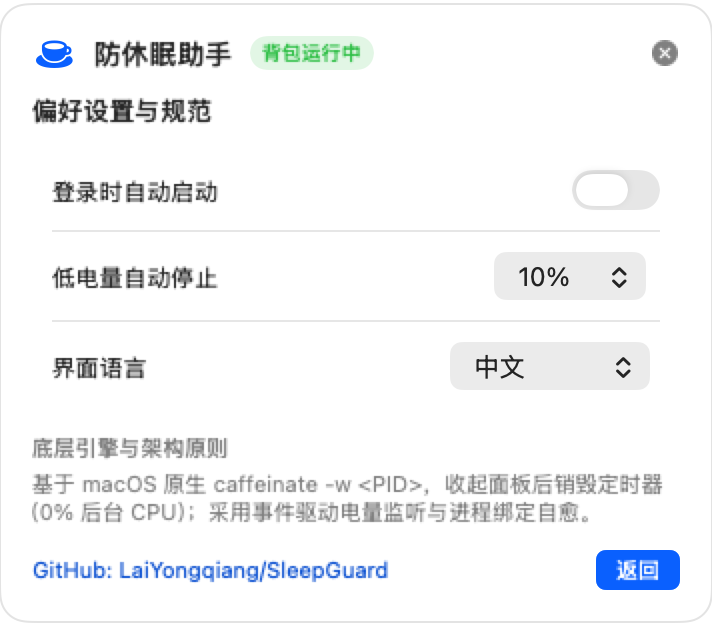
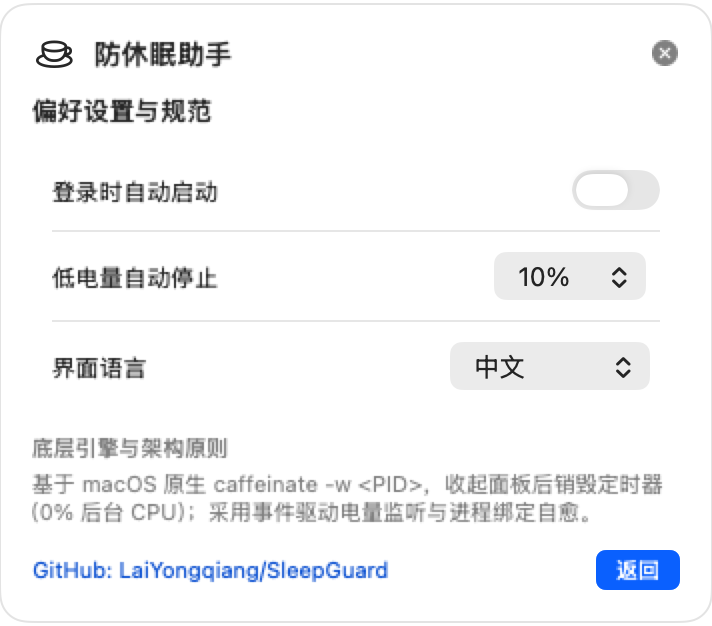
docs: add complete English preview screenshots to README

Changed region(s): [[0.3399, 0.0304, 0.5253, 0.1214], [0.0309, 0.0607, 0.1236, 0.1214]]

diff --git a/scripts/render_screenshots.swift b/scripts/render_screenshots.swift
@@ -69,6 +69,7 @@ struct ScreenshotRenderer {
         )
 
         manager.showSettings = true
+        manager.isRunning = false
         render(
             view: SleepGuardPopoverView(manager: manager),
             appearance: .aqua,
@@ -76,12 +77,32 @@ struct ScreenshotRenderer {
         )
 
         manager.showSettings = false
-        manager.isRunning = false
         manager.config.language = .en
         render(
             view: SleepGuardPopoverView(manager: manager),
             appearance: .aqua,
             outPath: "\(outDir)/preview-idle-en.png"
+        )
+
+        manager.isRunning = true
+        render(
+            view: SleepGuardPopoverView(manager: manager),
+            appearance: .aqua,
+            outPath: "\(outDir)/preview-running-light-en.png"
+        )
+
+        render(
+            view: SleepGuardPopoverView(manager: manager),
+            appearance: .darkAqua,
+            outPath: "\(outDir)/preview-running-dark-en.png"
+        )
+
+        manager.isRunning = false
+        manager.showSettings = true
+        render(
+            view: SleepGuardPopoverView(manager: manager),
+            appearance: .aqua,
+            outPath: "\(outDir)/preview-settings-en.png"
         )
     }
 }

diff --git a/README.md b/README.md
@@ -10,9 +10,9 @@
 
 ## Preview
 
-| Idle (English) | Active Countdown (Light) | Active Countdown (Dark) |
-| :---: | :---: | :---: |
-| <img src="docs/images/preview-idle-en.png" width="260" alt="Idle English Preview" /> | <img src="docs/images/preview-running-light.png" width="260" alt="Active Light Preview" /> | <img src="docs/images/preview-running-dark.png" width="260" alt="Active Dark Preview" /> |
+| Idle (Light) | Active Countdown (Light) | Active Countdown (Dark) | Preferences |
+| :---: | :---: | :---: | :---: |
+| <img src="docs/images/preview-idle-en.png" width="210" alt="Idle Light Preview" /> | <img src="docs/images/preview-running-light-en.png" width="210" alt="Active Light Preview" /> | <img src="docs/images/preview-running-dark-en.png" width="210" alt="Active Dark Preview" /> | <img src="docs/images/preview-settings-en.png" width="210" alt="Preferences Preview" /> |
 
 ---
 
